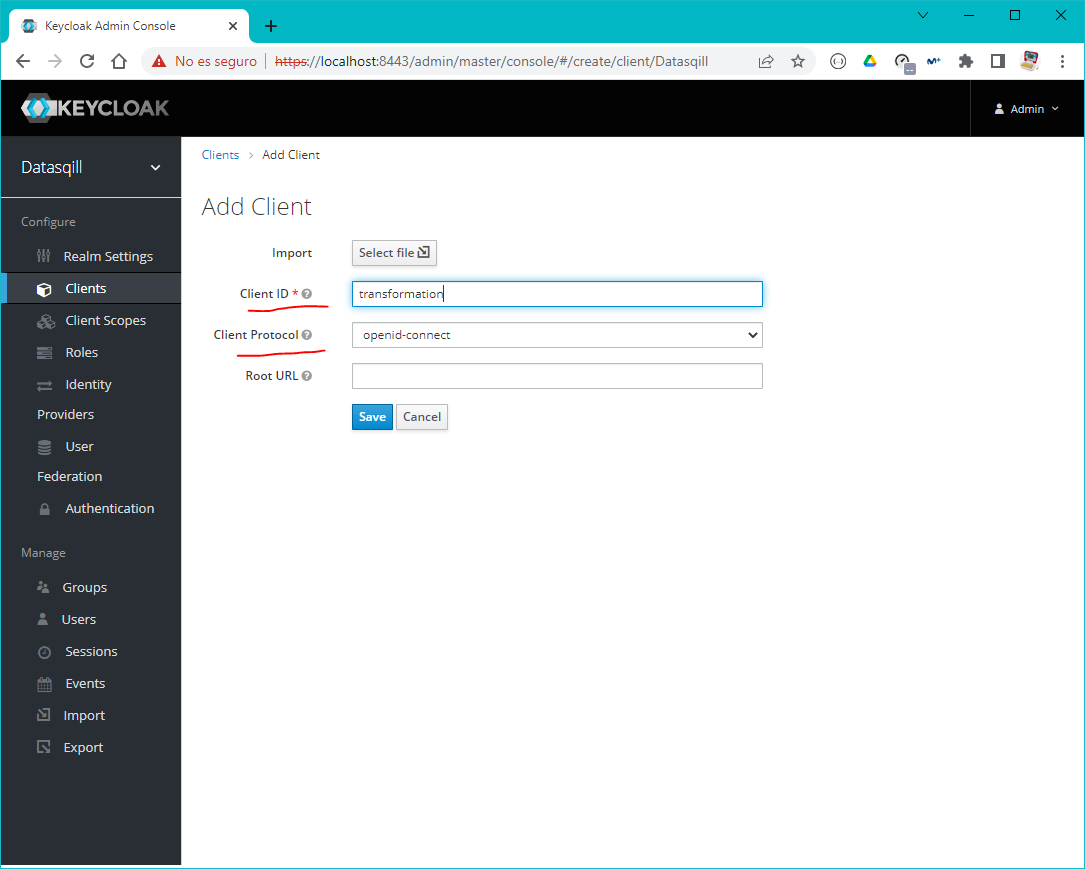
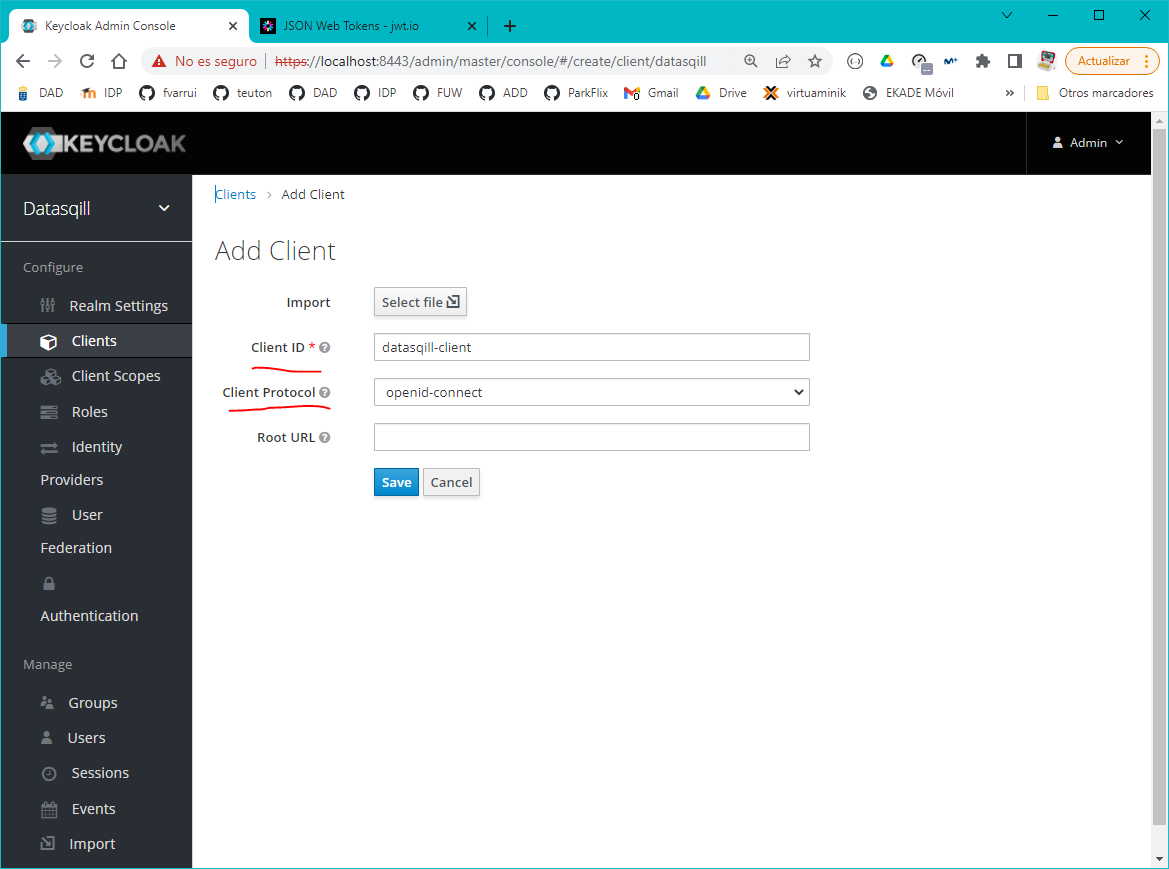
U set up process enhanced

diff --git a/x509-client-auth.md b/x509-client-auth.md
@@ -4,7 +4,7 @@ To enable X.509 client authentication in the KC auth server, follow the next ste
 
 ## Setting up the configuration file
 
-This configuration should be applied before running KC through the `${kc.home.dir}/conf/keycloak.conf` properties file:
+This configuration should be applied before running KC in the `${kc.home.dir}/conf/keycloak.conf` properties file:
 
 ### Setting server certificate
 
@@ -111,43 +111,31 @@ To configure the validity time and when a token expires, we must go to **Realm S
 
 #### Create a client
 
-Clients are the resource servers and we must configure at least one to be able to authenticate and authorize users.
+Clients are the applications which want to log users in to get an access token and we must configure at least one to be able to authenticate and authorize users.
 
 Go to **Clients** section on the left panel and click on **Create** under **Lookup** tab:
 
 ![Create client](assets/create-client.png)
 
-Enter a **Client ID** (e.g. `dev`), which is needed when the user application request a token, set `openid-connect` as **Client Porotocol** (the alternative is `saml`), and finally click on **Save**:
+Enter a **Client ID** (e.g. `datasqill-client`, which is needed when the client application request an access token), set `openid-connect` as **Client Protocol**, and finally click on **Save**:
 
 ![Set new client ID](assets/set-new-client-id.png)
 
-Then, in the **Settings** tab, you have to set at least one **Valid Redirect URI** with the resource server URL and set **Access Type** to `confidential` (clients require credentials to log in), and click on **Save** again:
+Then, in the **Settings** tab, we have to set a **Description** (e.g. `Datasqill Client Application`), set **Access Type** to `public` (clients do not require a secret), disable **Standard Flow** (not necessary for us, as we only need direct access grants; this flow is for showing a login form to users and then redirect them to an specific URL after a successful login), enable **Direct Access Grants** (the clients already have the users' certificates, that is, their credentials, so it is not necessary to request them) and click on **Save** again:
 
 ![New client settings](assets/new-client-settings.png)
 
-As we set our **Access Type** to `confidential`, then we must specify how the user is identified.
-
-Finally, under **Credentials** tab, we must indicate that the user's credentials to get an access token are extracted  from the certificate:
-
-![client credentials](assets/client-credentials.png)
-
-- **Client Authenticator**: authenticator used to authenticate clients.
-
-- **Subject DN**: regular expression for validating Subject DN.
-
-- **Allow Regex Pattern Comparison**: the Subject DN from given client certificate should match regular expression specified by **Subject DN** property.
-
 ##### Disable Refresh Tokens
 
-It is possible to disable the use of a **Refresh Token** when setting up the client. Refresh tokens can be used by applications to request a new access token without the user intervention. 
+It is possible to disable the use of a **Refresh Token** when setting up the client. Refresh tokens can be used by clients to request a new access token without the user intervention. 
 
-> In our case, as we are using certificates for authentication configured in the user application, don't need refresh tokens.
+> In our case, as we are using direct access grants (clients always know user credentials, as they are user certificates), don't need refresh tokens.
 
-Go to the section **OpenID Connect Compatibility Modes** and uncheck **Use refresh Tokens**:
+Go to the section **OpenID Connect Compatibility Modes** and disable **Use refresh Tokens**:
 
 ![Disable refresh tokens](assets/disable-refresh-tokens.png)
 
-#### Set up a flow for X.509 certificate authentication
+#### Add a flow for X.509 certificate authentication
 
 Flows are sequences of steps to authenticate users in KC (or achieve any action related with authentication), and we can create our own custom flows. They can be applied to different user interactions with KC (connecting via a web browser, resetting credentials, direct access to its REST API, ...).
 
@@ -173,19 +161,23 @@ After creating the flow execution, we have to configure it expanding **Actions**
 
 ![](assets/config-authflow.png)
 
-As mutual TLS is enabled, KC server got the user's certificate when the connection with the client is established. If the connection was established, it means that the user has a valid certificate (it was trusted with the CA certificate which is stored in the previously configured truststore).
+As mutual TLS is enabled, KC server got the user's certificate when the connection is established. If the connection could be established, it means that the user has a valid certificate (it was trusted with the CA certificate which is stored in the previously configured truststore).
 
 So, now, we have to specify how to extract the user identity from this certificate.
 
-In our case, we want to extract the user ID from the SubjectDN using a regular expression, so we choose `Match SubjectDN using a regular expression` in **User Identity Source**, set `UID=(.*?)(?:$)` as regular expression (in a reg.exp., parenthesis defines groups, and they are used to specify which part of the Subject DN will be extracted), and finally, in **User Mapping Method** we set `Username or Email`, in order to use these fields to find the user in the users database (so, the extracted data from the Subject DN must match with the username or email of any user in the KC users database). Finally, click **Save** at the bottom of the form.
+In our case, we want to extract the user ID from the Subject DN using a regular expression, so we choose `Match SubjectDN using a regular expression`. 
+
+Then, set  **User Identity Source** with `UID=(.*?)(?:$)`. In a regular expression, parenthesis defines groups, and they are used to specify which part of the Subject DN will be extracted.
+
+Finally, in **User Mapping Method** we set `Username or Email`, in order to use these fields to find the user in the users database (so, the extracted user identifier from the Subject DN must match with the `username` or `email` attributes of a user in the KC users database). 
+
+Finally, click **Save** at the bottom of the form.
 
 ![](assets/setup-x509-authflow.png)
 
 Now, we have to use our new custom flow to enable direct grant access to the KC server, so valid users can request access tokens to KC through its REST API. So, go to **Authentication > Bindings** and choose `X509` as **Direct Grant Flow**, and don't forgot to click on **Save**:
 
 ![](assets/direct-grant-flow-x509.png)
-
-
 
 Remember that your users have to exist in the KC user database or in any of the federated (Active Directory, LDAP) or custom (Service Provider Interface module) user identity providers.
 
